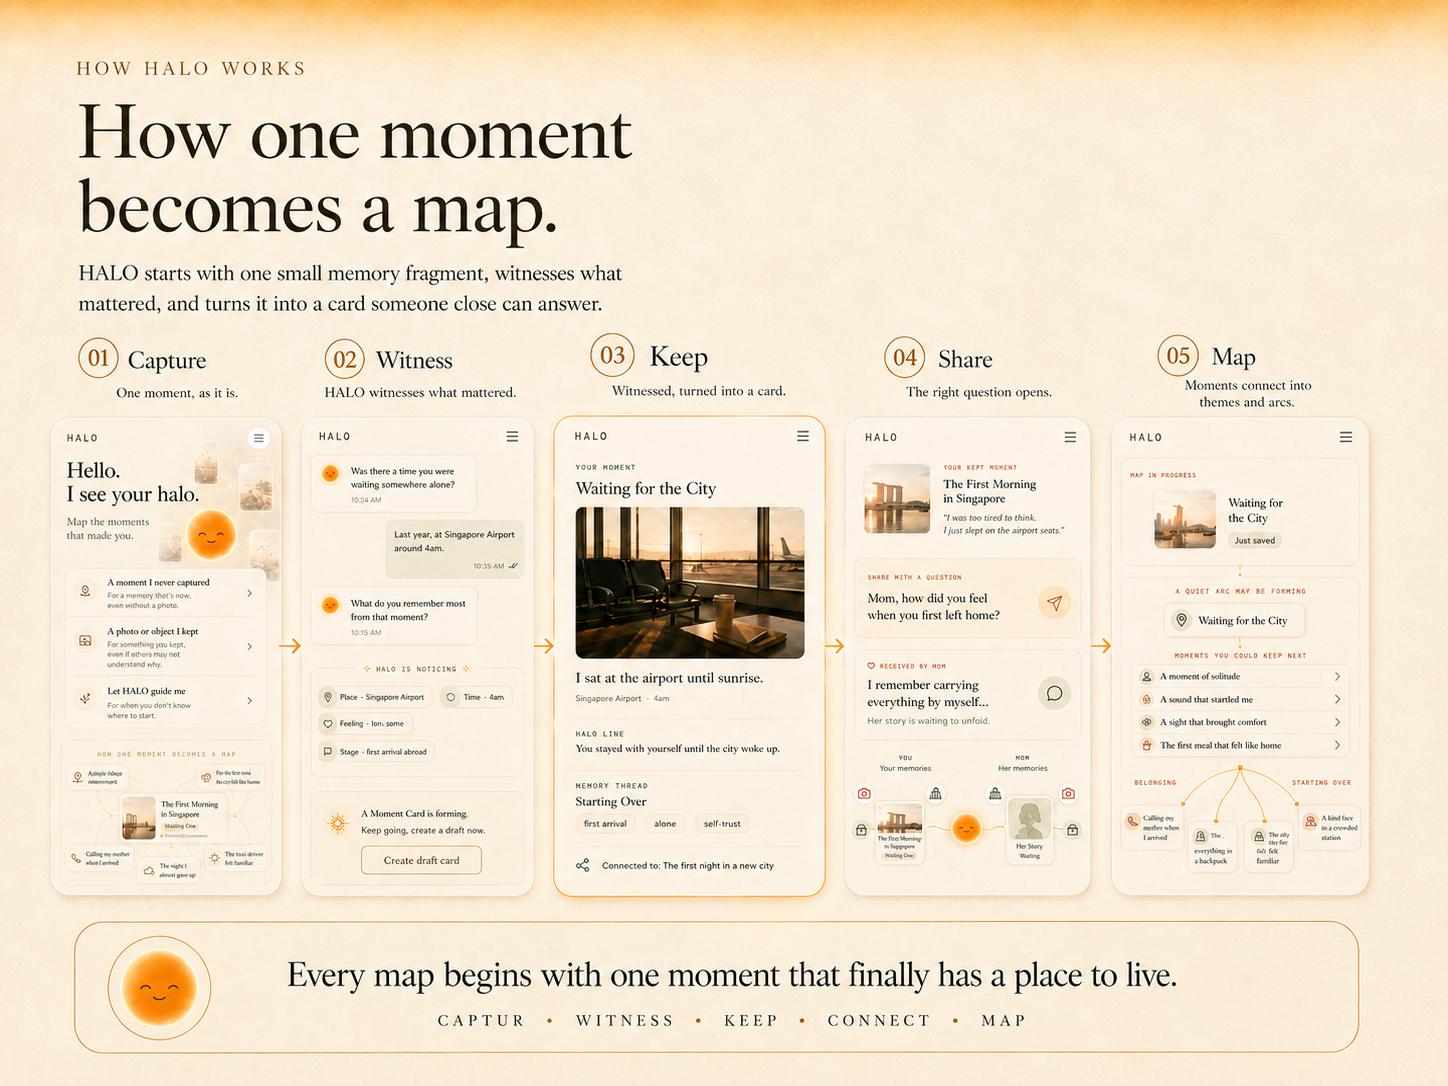
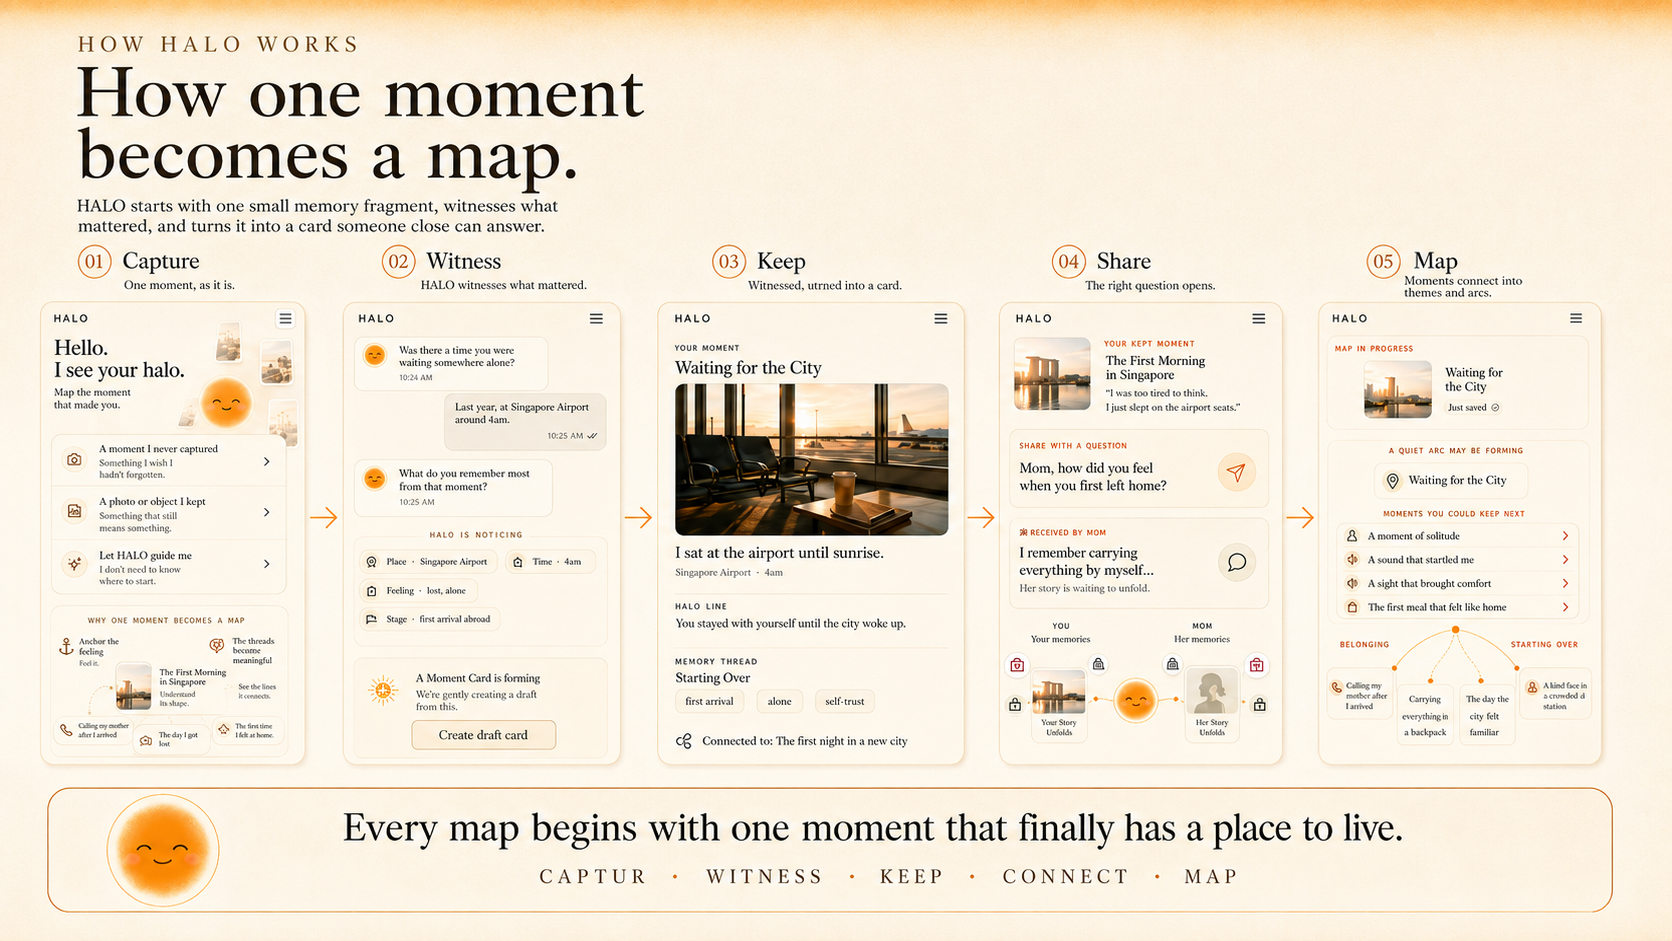
feat: hero hit areas, section 2 new image, remove text overlays

Changed region(s): [[0.0, 0.0, 0.9634, 0.9862], [0.9323, 0.9554, 0.9634, 0.9862]]

diff --git a/app/page.tsx b/app/page.tsx
@@ -2,64 +2,76 @@ import Image from "next/image";
 import Link from "next/link";
 import { SiteNav } from "@/components/site/SiteNav";
 
-const panels = [
-  {
-    id: "top",
-    src: "/site/hero.png",
-    alt: "HALO landing page hero showing a person stepping into warm light, with the message that every unseen moment carries its own halo.",
-    label: "Every unseen moment carries its own halo.",
-  },
-  {
-    id: "how-it-works",
-    src: "/site/how.png",
-    alt: "How HALO works: a small moment becomes a card, a question, and eventually a map.",
-    label: "How HALO works",
-  },
-  {
-    id: "memory-map",
-    src: "/site/map.png",
-    alt: "HALO memory map showing moment cards becoming nodes and arcs across a personal memory map.",
-    label: "Map the moments that made you",
-  },
-] as const;
-
 export default function SitePage() {
   return (
     <main className="official-site" id="top">
       <SiteNav />
-      {panels.map((panel) => (
-        <section
-          key={panel.id}
-          id={panel.id}
-          className={`official-panel official-panel--${panel.id}`}
-          aria-label={panel.label}
-        >
+
+      {/* ── Section 1: Hero ── */}
+      <section
+        className="official-panel official-panel--top"
+        aria-label="Every unseen moment carries its own halo."
+      >
+        <div className="official-hero-wrap">
           <Image
-            src={panel.src}
-            alt={panel.alt}
+            src="/site/hero.png"
+            alt="HALO landing page hero — every unseen moment carries its own halo."
             width={1672}
             height={941}
             sizes="100vw"
-            className="official-panel__image"
-            priority={panel.id === "top"}
+            className="official-hero-img"
+            priority
             unoptimized
           />
-          {panel.id === "top" ? (
-            <div className="official-hero-links" aria-label="Hero actions">
-              <Link className="official-hotspot official-hotspot--primary" href="/demo">
-                Map the Moments That Made Me
-              </Link>
-              <a className="official-hotspot official-hotspot--secondary" href="#how-it-works">
-                See How HALO Works
-              </a>
-              <Link className="official-hotspot official-hotspot--try" href="/demo">
-                Try HALO
-              </Link>
-            </div>
-          ) : null}
-        </section>
-      ))}
+          {/* Invisible hit areas over baked-in image buttons */}
+          <Link
+            href="/demo"
+            aria-label="Map the Moments That Made Me"
+            className="official-hit official-hit--primary"
+          />
+          <a
+            href="#how-it-works"
+            aria-label="See How HALO Works"
+            className="official-hit official-hit--secondary"
+          />
+        </div>
+      </section>
 
+      {/* ── Section 2: How it works ── */}
+      <section
+        id="how-it-works"
+        className="official-panel official-panel--how-it-works"
+        aria-label="How HALO works"
+      >
+        <Image
+          src="/site/how.png"
+          alt="How HALO works: a small moment becomes a card, a question, and eventually a map."
+          width={1672}
+          height={941}
+          sizes="100vw"
+          className="official-panel__image official-panel__image--cover"
+          unoptimized
+        />
+      </section>
+
+      {/* ── Section 3: Memory Map ── */}
+      <section
+        id="memory-map"
+        className="official-panel official-panel--memory-map"
+        aria-label="Map the moments that made you"
+      >
+        <Image
+          src="/site/map.png"
+          alt="HALO memory map showing moment cards becoming nodes and arcs across a personal memory map."
+          width={1672}
+          height={941}
+          sizes="100vw"
+          className="official-panel__image"
+          unoptimized
+        />
+      </section>
+
+      {/* ── Section 4: Share a Moment ── */}
       <section
         id="share-a-moment"
         className="official-panel official-panel--share"
@@ -76,6 +88,7 @@ export default function SitePage() {
         />
       </section>
 
+      {/* ── Section 5: Closing ── */}
       <section
         id="closing"
         className="official-panel official-panel--closing"

diff --git a/app/globals.css b/app/globals.css
@@ -982,6 +982,54 @@ body {
   background: #e6ae72;
 }
 
+/* Hero panel — natural image height, no object-cover */
+.official-panel--top {
+  min-height: unset;
+}
+
+.official-hero-wrap {
+  position: relative;
+  width: 100%;
+  overflow: hidden;
+}
+
+.official-hero-img {
+  display: block;
+  width: 100%;
+  height: auto;
+}
+
+/* Invisible hit areas over baked-in image buttons */
+.official-hit {
+  position: absolute;
+  z-index: 30;
+  pointer-events: auto;
+  background: transparent;
+  border-radius: 999px;
+}
+
+.official-hit:focus-visible {
+  outline: 2px solid #f2c678;
+  outline-offset: 4px;
+}
+
+/* "Map the Moments That Made Me" button area */
+.official-hit--primary {
+  left: 2.2%;
+  top: 68%;
+  width: 24%;
+  height: 8%;
+}
+
+/* "See How HALO Works" button area */
+.official-hit--secondary {
+  left: 29%;
+  top: 69%;
+  width: 17%;
+  height: 6%;
+}
+
+/* Non-hero panels — image fills full viewport height */
 .official-panel__image {
   width: 100%;
   height: 100svh;
@@ -999,50 +1047,6 @@ body {
   bottom: clamp(40px, 8vh, 80px);
   left: clamp(28px, 6vw, 100px);
   pointer-events: auto;
-}
-
-.official-hero-links {
-  position: absolute;
-  inset: 0;
-  pointer-events: none;
-}
-
-.official-hotspot {
-  position: absolute;
-  z-index: 4;
-  overflow: hidden;
-  color: transparent;
-  pointer-events: auto;
-  white-space: nowrap;
-}
-
-.official-hotspot:focus-visible {
-  outline: 2px solid #f2c678;
-  outline-offset: 5px;
-}
-
-.official-hotspot--primary {
-  left: 2.25%;
-  bottom: 9.5%;
-  width: 24.3%;
-  height: 7.1%;
-  border-radius: 999px;
-}
-
-.official-hotspot--secondary {
-  left: 28.6%;
-  bottom: 9.35%;
-  width: 17.1%;
-  height: 6.6%;
-  border-radius: 999px;
-}
-
-.official-hotspot--try {
-  right: 1.5%;
-  top: 3.6%;
-  width: 8.8%;
-  height: 7%;
-  border-radius: 999px;
 }
 
 .official-panel--text::after {
@@ -1151,6 +1155,9 @@ body {
   }
 
   .official-hero-links {
+    display: none;
+  }
+  .official-hit {
     display: none;
   }
 